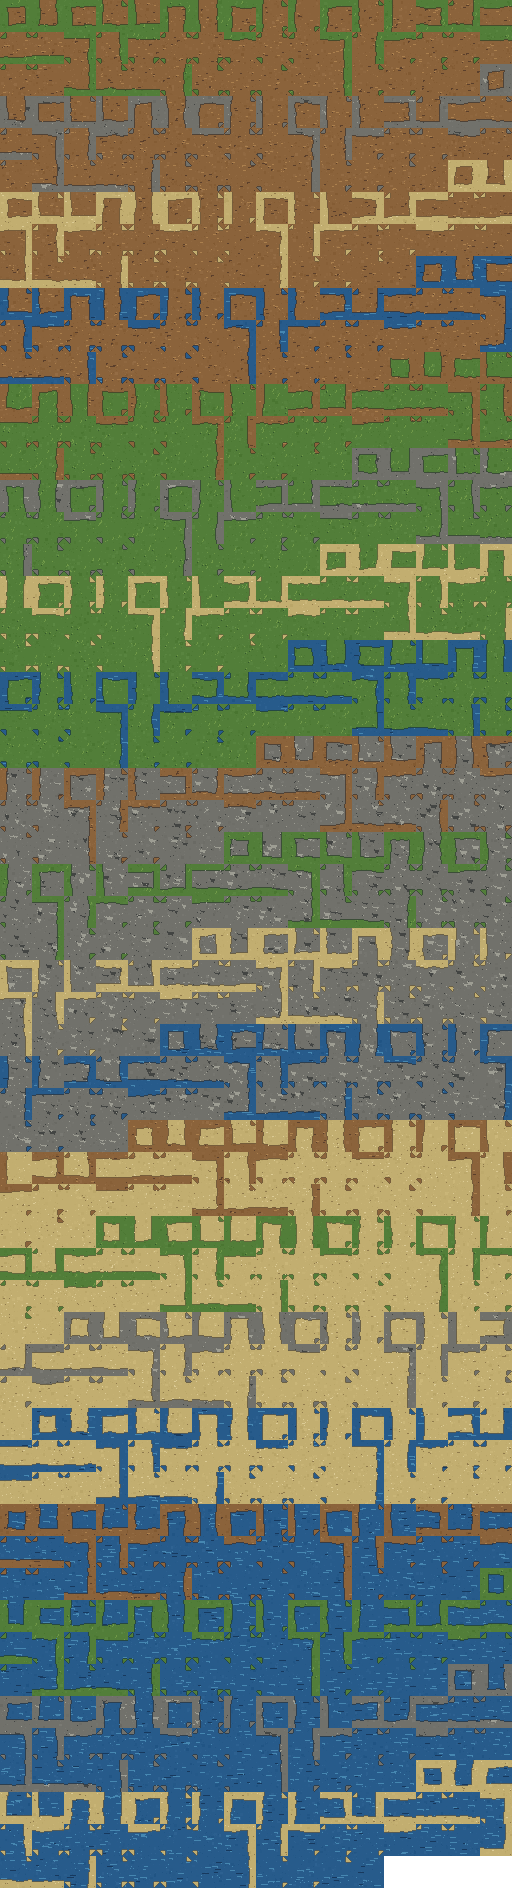
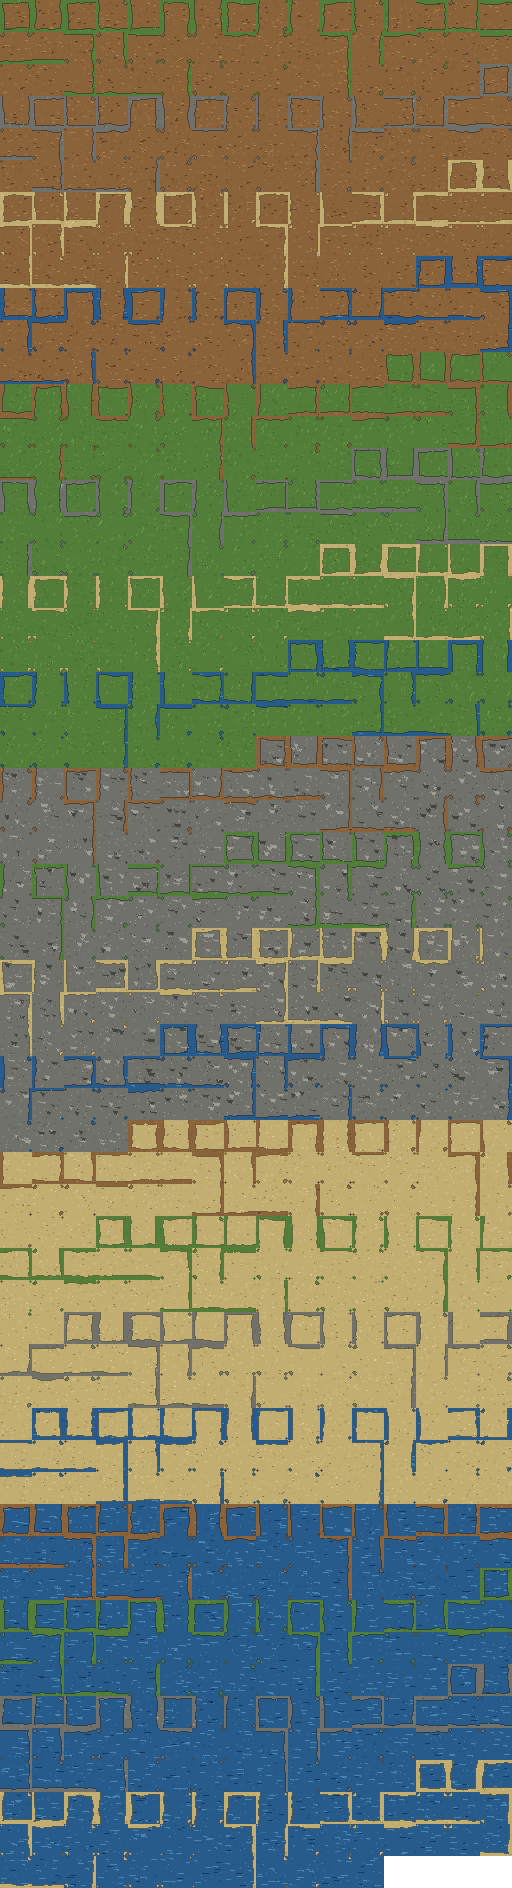
fix(assets): thin terrain transition edges (were reading as walls)
The chunky pass used a 6-8px encroachment on a 32px tile - a quarter of the
tile - so edges read as wall/pipe strips. Terrain-to-terrain edges in the
original games are thin irregular encroachments.

- profile() base depth 3 with 2..4 jitter (was 7 over 6..8)
- corner notches 2..4px (was 5..7)
- regenerated all 940 blob tiles

Verified: per-row pixel map on rock_to_dirt/0x14 shows rows 0-3 full, a single
step at row 4 and one jag back at row 5 - a 2-3px nick, not a band. Map render
shows thin irregular boundaries. Engine tests 16/16, clippy 0 warnings.

Changed region(s): [[0.0, 0.0, 1.0, 1.0], [0.5938, 0.9688, 0.625, 1.0]]

diff --git a/RUST/assets/packs/cnc32_assets_v6_2_1/source/cnc32_asset_generator_v5.py b/RUST/assets/packs/cnc32_assets_v6_2_1/source/cnc32_asset_generator_v5.py
@@ -170,23 +170,24 @@ def terrain_transition(kind: str, same_mask: int, seed: str, alt_kind: str | Non
     primary = terrain_base(kind, seed + ":primary")
     rng = random.Random(stable_seed(f"{seed}:{kind}:{alt}:{same_mask}:edge"))
     n, ne, e, se, so, sw, w, nw = [(same_mask >> i) & 1 for i in range(8)]
-    # Chunky pixel-art boundary: shallow +/-1 px sawtooth over a fixed base
-    # depth (the legacy 16px pack's style), NOT wide organic banks. Steep steps
-    # with occasional 2-px jags read as authored rock/terrain edges at map scale.
+    # Thin irregular terrain edge: 2-4 px encroachment with a +/-1 px sawtooth.
+    # A wide band reads as a wall strip (the previous 6-8px pass looked like
+    # pipes); the original games keep terrain edges thin so the boundary reads
+    # as natural ground, while still being axis-aligned pixel art.
     def profile(base: int, count: int, lo: int, hi: int) -> list[int]:
         values=[]
         for i in range(count):
             if i % 4 == 0: base = max(lo, min(hi, base + rng.choice((-1, 0, 1))))
             values.append(base)
         return values
-    north = profile(7, TILE, 6, 8); south = profile(7, TILE, 6, 8)
-    west = profile(7, TILE, 6, 8); east = profile(7, TILE, 6, 8)
+    north = profile(3, TILE, 2, 4); south = profile(3, TILE, 2, 4)
+    west = profile(3, TILE, 2, 4); east = profile(3, TILE, 2, 4)
 
-    # Corners: a compact chamfered notch (the legacy wall_curve style), not a
-    # circle: a 6x6 pocket whose outer tip is a single 45-degree chamfer. This
-    # keeps the tile reading as pixel art while softening the 90-degree meet.
-    notch = {"nw": rng.randrange(5, 7), "ne": rng.randrange(5, 7),
-             "sw": rng.randrange(5, 7), "se": rng.randrange(5, 7)}
+    # Corners: a small nick (2-4 px) with a single 45-degree tip, matching the
+    # thin edge above. A large notch reads as a blocky cut-out; a small one reads
+    # as a natural corner nick where two edges meet.
+    notch = {"nw": rng.randrange(2, 5), "ne": rng.randrange(2, 5),
+             "sw": rng.randrange(2, 5), "se": rng.randrange(2, 5)}
     mask = Image.new("L", (TILE,TILE), 0); px=mask.load()
     for y in range(TILE):
         for x in range(TILE):
